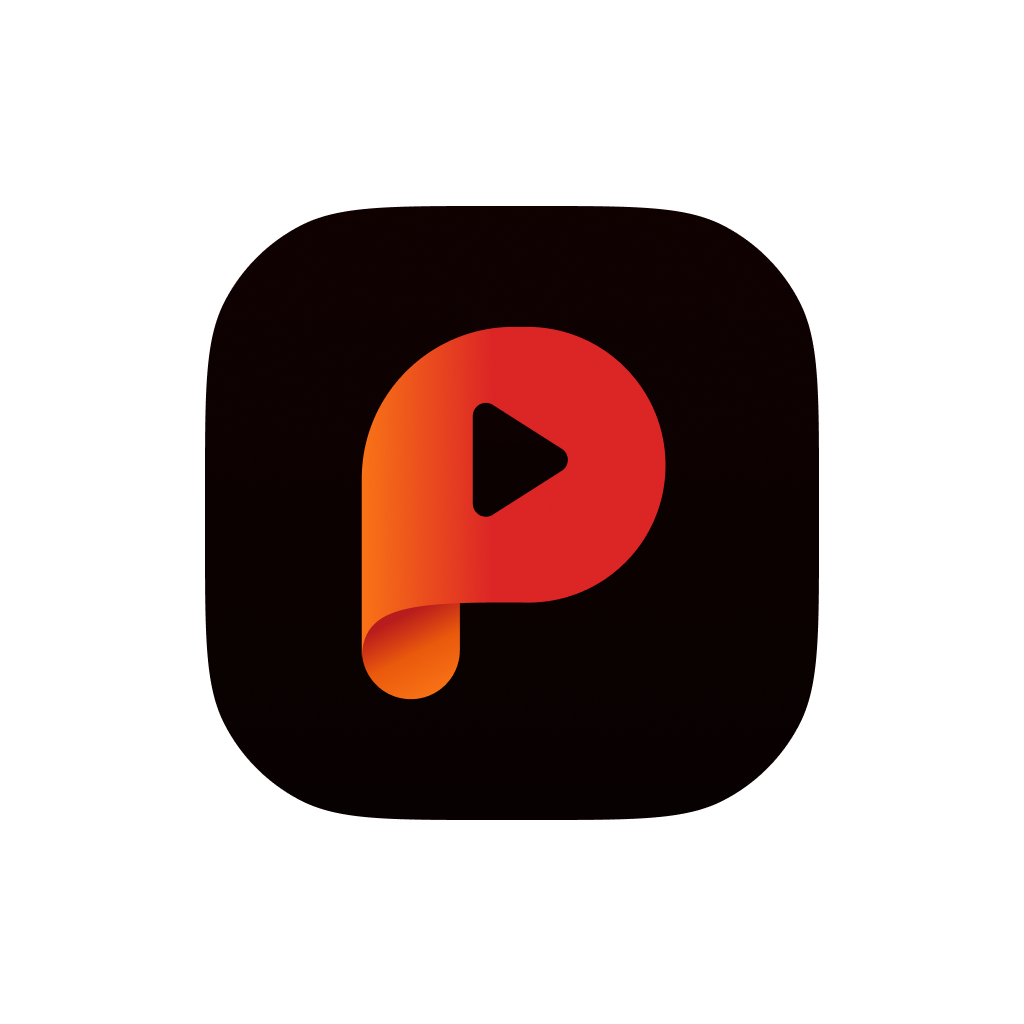
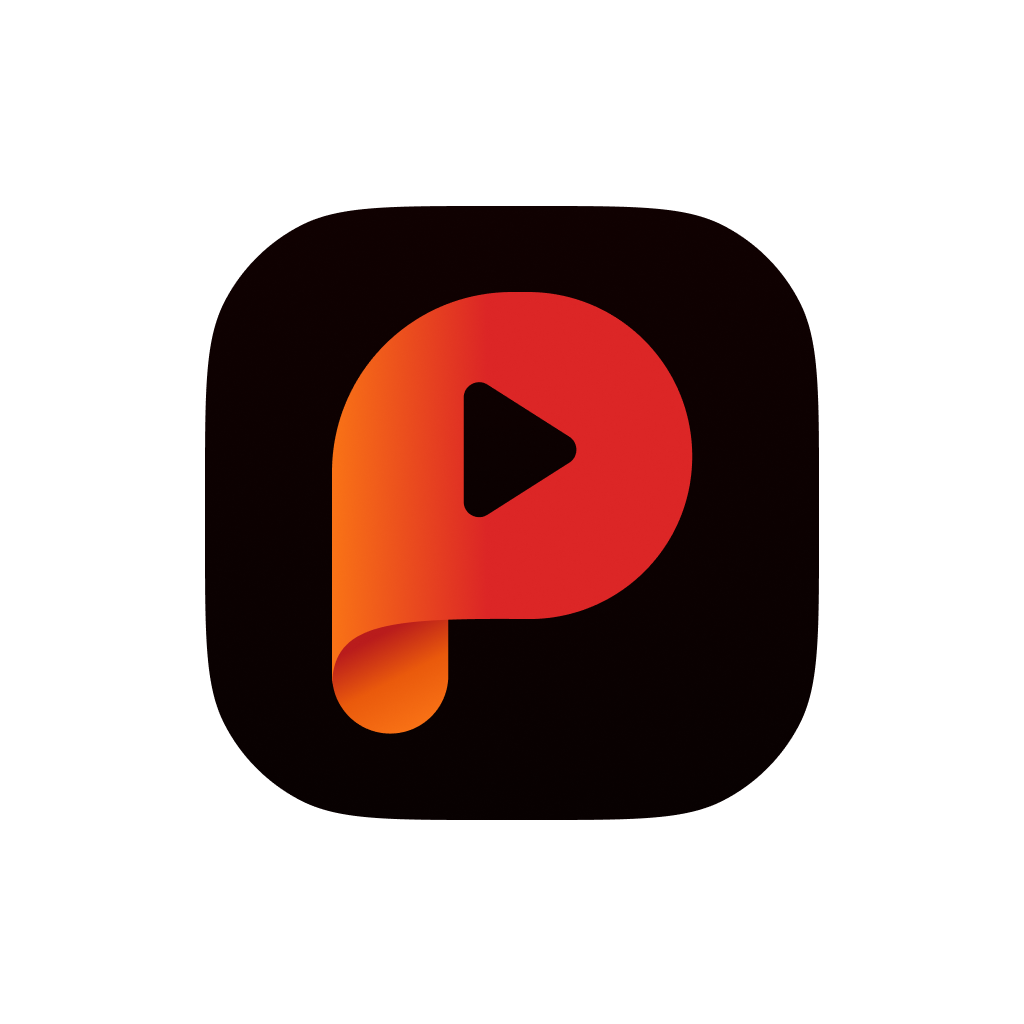
chore: Setup eas configs for internal distribution and other minors:
- improve app icon and splash icon.
- delete obselete files within assets/images.

Changed region(s): [[0.3125, 0.2812, 0.6875, 0.7188], [0.4375, 0.375, 0.5625, 0.5], [0.5, 0.4688, 0.5312, 0.5]]

diff --git a/src/app/index.tsx b/src/app/index.tsx
@@ -7,7 +7,7 @@ import React from "react";
 export default function Home() {
 	return (
 		<Box className="flex-1 bg-black h-[100vh]">
-			<Text>Home screen</Text>
+			<Text className="text-black">Home screen</Text>
 		</Box>
 	);
 }
